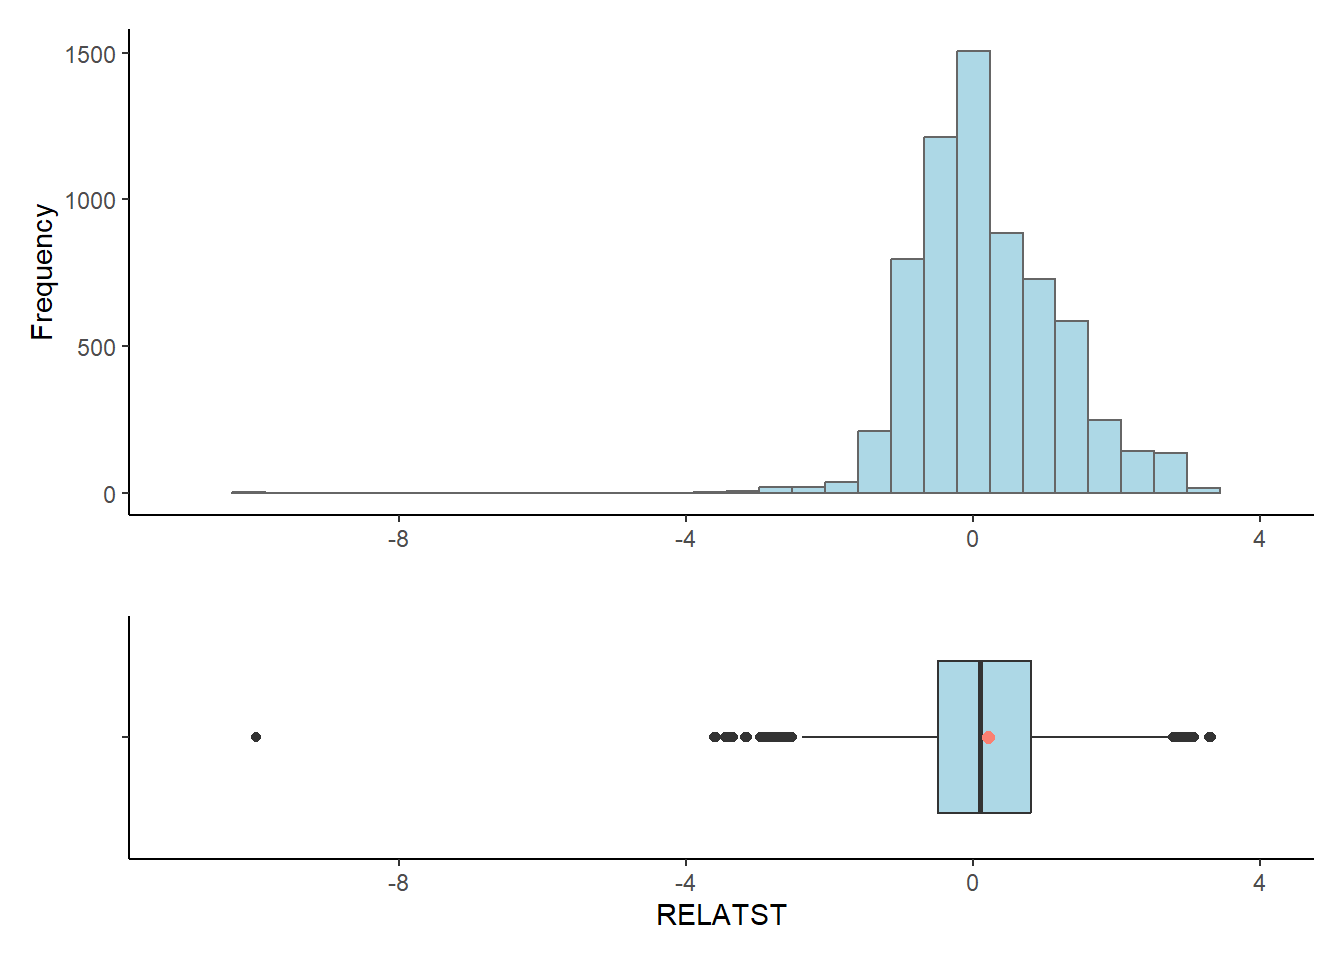
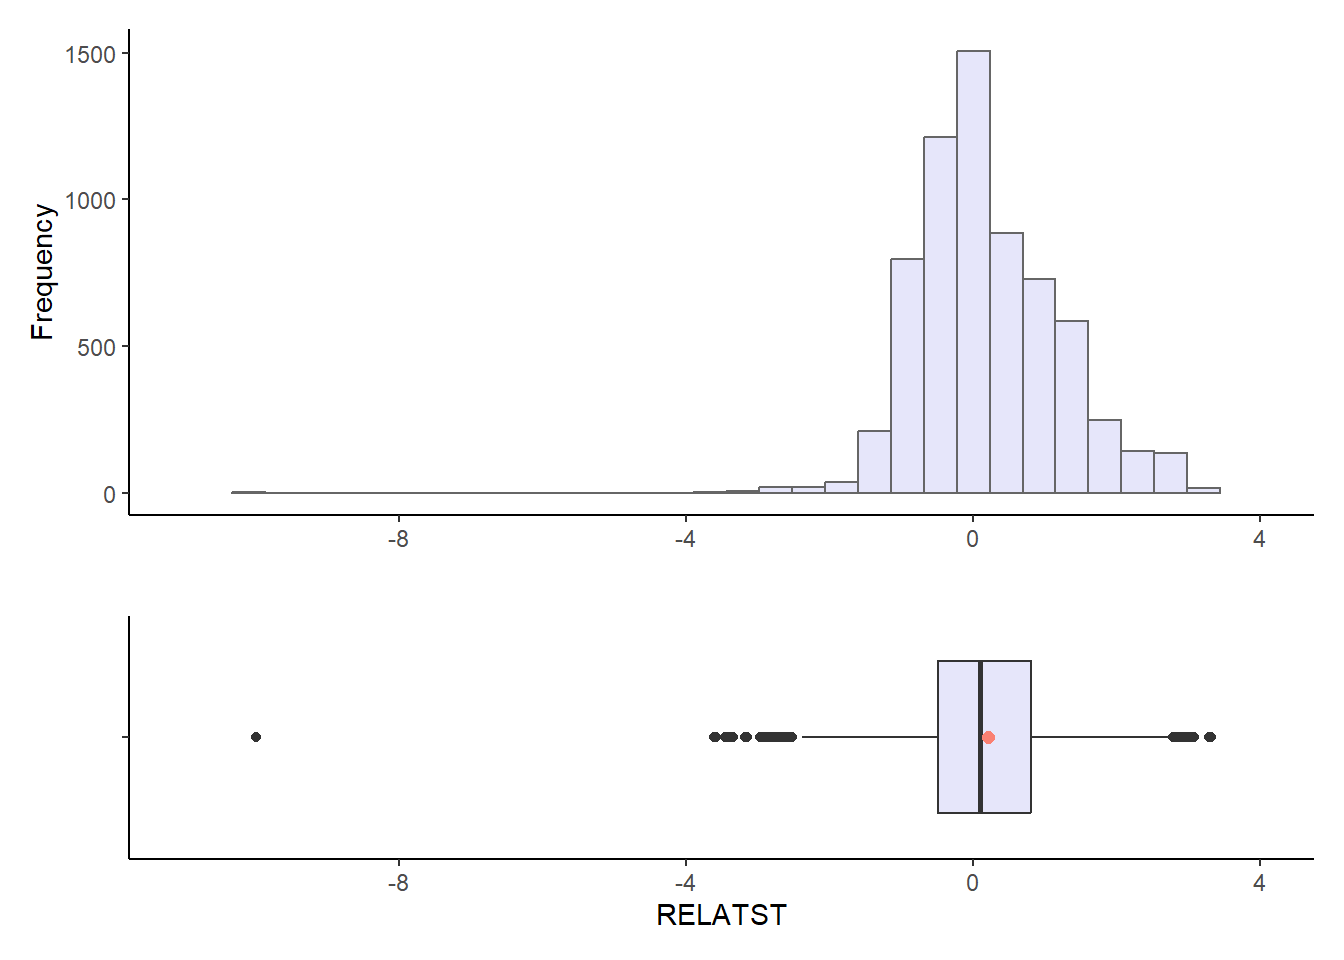
take_home_ex01

Changed region(s): [[0.5625, 0.0312, 0.9062, 0.5312], [0.6875, 0.6875, 0.7812, 0.8438]]

diff --git a/_site/take_home_ex/take_home_ex01/take_home_ex01.html b/_site/take_home_ex/take_home_ex01/take_home_ex01.html
@@ -904,7 +904,9 @@ Tip
 <div class="cell">
 <div class="sourceCode cell-code" id="cb19"><pre class="sourceCode r code-with-copy"><code class="sourceCode r"><span id="cb19-1"><a href="#cb19-1" aria-hidden="true" tabindex="-1"></a><span class="fu">ggplot</span>(<span class="at">data =</span> stu_sg_data,</span>
 <span id="cb19-2"><a href="#cb19-2" aria-hidden="true" tabindex="-1"></a>       <span class="fu">aes</span>(<span class="at">x =</span> GENDER)) <span class="sc">+</span></span>
-<span id="cb19-3"><a href="#cb19-3" aria-hidden="true" tabindex="-1"></a>  <span class="fu">geom_bar</span>(<span class="at">color =</span> <span class="st">"grey40"</span>)</span></code><button title="Copy to Clipboard" class="code-copy-button"><i class="bi"></i></button></pre></div>
+<span id="cb19-3"><a href="#cb19-3" aria-hidden="true" tabindex="-1"></a>  <span class="fu">geom_bar</span>(<span class="at">color =</span> <span class="st">"grey40"</span>,</span>
+<span id="cb19-4"><a href="#cb19-4" aria-hidden="true" tabindex="-1"></a>           <span class="at">fill =</span> <span class="st">"lavender"</span>) <span class="sc">+</span></span>
+<span id="cb19-5"><a href="#cb19-5" aria-hidden="true" tabindex="-1"></a>  <span class="fu">theme_classic</span>()</span></code><button title="Copy to Clipboard" class="code-copy-button"><i class="bi"></i></button></pre></div>
 <div class="cell-output-display">
 <p><img src="take_home_ex01_files/figure-html/unnamed-chunk-19-1.png" class="img-fluid" width="672"></p>
 </div>
@@ -919,7 +921,7 @@ Tip
 <div class="sourceCode cell-code" id="cb20"><pre class="sourceCode r code-with-copy"><code class="sourceCode r"><span id="cb20-1"><a href="#cb20-1" aria-hidden="true" tabindex="-1"></a>escs_hist <span class="ot">&lt;-</span> <span class="fu">ggplot</span>(<span class="at">data =</span> stu_sg_data,</span>
 <span id="cb20-2"><a href="#cb20-2" aria-hidden="true" tabindex="-1"></a>       <span class="fu">aes</span>(<span class="at">x =</span> ESCS)) <span class="sc">+</span></span>
 <span id="cb20-3"><a href="#cb20-3" aria-hidden="true" tabindex="-1"></a>  <span class="fu">geom_histogram</span>(<span class="at">color =</span> <span class="st">"grey40"</span>,</span>
-<span id="cb20-4"><a href="#cb20-4" aria-hidden="true" tabindex="-1"></a>                 <span class="at">fill =</span> <span class="st">"lightblue"</span>) <span class="sc">+</span></span>
+<span id="cb20-4"><a href="#cb20-4" aria-hidden="true" tabindex="-1"></a>                 <span class="at">fill =</span> <span class="st">"lavender"</span>) <span class="sc">+</span></span>
 <span id="cb20-5"><a href="#cb20-5" aria-hidden="true" tabindex="-1"></a>  <span class="fu">ggtitle</span>(<span class="st">"Distribution of ESCS"</span>) <span class="sc">+</span></span>
 <span id="cb20-6"><a href="#cb20-6" aria-hidden="true" tabindex="-1"></a>  <span class="fu">xlab</span>(<span class="st">""</span>) <span class="sc">+</span></span>
 <span id="cb20-7"><a href="#cb20-7" aria-hidden="true" tabindex="-1"></a>  <span class="fu">ylab</span>(<span class="st">"Frequency"</span>) <span class="sc">+</span></span>
@@ -929,7 +931,7 @@ Tip
 <span id="cb20-11"><a href="#cb20-11" aria-hidden="true" tabindex="-1"></a>escs_box <span class="ot">&lt;-</span> <span class="fu">ggplot</span>(<span class="at">data =</span> stu_sg_data,</span>
 <span id="cb20-12"><a href="#cb20-12" aria-hidden="true" tabindex="-1"></a>       <span class="fu">aes</span>(<span class="at">x =</span> ESCS,</span>
 <span id="cb20-13"><a href="#cb20-13" aria-hidden="true" tabindex="-1"></a>           <span class="at">y =</span> <span class="st">""</span>)) <span class="sc">+</span></span>
-<span id="cb20-14"><a href="#cb20-14" aria-hidden="true" tabindex="-1"></a>  <span class="fu">geom_boxplot</span>(<span class="at">fill =</span> <span class="st">"lightblue"</span>) <span class="sc">+</span></span>
+<span id="cb20-14"><a href="#cb20-14" aria-hidden="true" tabindex="-1"></a>  <span class="fu">geom_boxplot</span>(<span class="at">fill =</span> <span class="st">"lavender"</span>) <span class="sc">+</span></span>
 <span id="cb20-15"><a href="#cb20-15" aria-hidden="true" tabindex="-1"></a>  <span class="fu">geom_point</span>(<span class="at">stat =</span> <span class="st">"summary"</span>,</span>
 <span id="cb20-16"><a href="#cb20-16" aria-hidden="true" tabindex="-1"></a>             <span class="at">fun.y  =</span> <span class="st">"mean"</span>,</span>
 <span id="cb20-17"><a href="#cb20-17" aria-hidden="true" tabindex="-1"></a>             <span class="at">color =</span> <span class="st">"salmon"</span>,</span>
@@ -957,7 +959,7 @@ Tip
 <div class="sourceCode cell-code" id="cb21"><pre class="sourceCode r code-with-copy"><code class="sourceCode r"><span id="cb21-1"><a href="#cb21-1" aria-hidden="true" tabindex="-1"></a>relatst_hist <span class="ot">&lt;-</span> <span class="fu">ggplot</span>(<span class="at">data =</span> stu_sg_data,</span>
 <span id="cb21-2"><a href="#cb21-2" aria-hidden="true" tabindex="-1"></a>       <span class="fu">aes</span>(<span class="at">x =</span> RELATST)) <span class="sc">+</span></span>
 <span id="cb21-3"><a href="#cb21-3" aria-hidden="true" tabindex="-1"></a>  <span class="fu">geom_histogram</span>(<span class="at">color =</span> <span class="st">"grey40"</span>,</span>
-<span id="cb21-4"><a href="#cb21-4" aria-hidden="true" tabindex="-1"></a>                 <span class="at">fill =</span> <span class="st">"lightblue"</span>) <span class="sc">+</span></span>
+<span id="cb21-4"><a href="#cb21-4" aria-hidden="true" tabindex="-1"></a>                 <span class="at">fill =</span> <span class="st">"lavender"</span>) <span class="sc">+</span></span>
 <span id="cb21-5"><a href="#cb21-5" aria-hidden="true" tabindex="-1"></a>  <span class="fu">xlab</span>(<span class="st">""</span>) <span class="sc">+</span></span>
 <span id="cb21-6"><a href="#cb21-6" aria-hidden="true" tabindex="-1"></a>  <span class="fu">ylab</span>(<span class="st">"Frequency"</span>) <span class="sc">+</span></span>
 <span id="cb21-7"><a href="#cb21-7" aria-hidden="true" tabindex="-1"></a>  <span class="fu">coord_cartesian</span>(<span class="at">xlim =</span> <span class="fu">c</span>(<span class="sc">-</span><span class="dv">11</span>, <span class="dv">4</span>)) <span class="sc">+</span></span>
@@ -965,7 +967,7 @@ Tip
 <span id="cb21-9"><a href="#cb21-9" aria-hidden="true" tabindex="-1"></a></span>
 <span id="cb21-10"><a href="#cb21-10" aria-hidden="true" tabindex="-1"></a>relatst_box <span class="ot">&lt;-</span> <span class="fu">ggplot</span>(<span class="at">data =</span> stu_sg_data,</span>
 <span id="cb21-11"><a href="#cb21-11" aria-hidden="true" tabindex="-1"></a>       <span class="fu">aes</span>(<span class="at">x =</span> RELATST, <span class="at">y =</span> <span class="st">""</span>)) <span class="sc">+</span></span>
-<span id="cb21-12"><a href="#cb21-12" aria-hidden="true" tabindex="-1"></a>  <span class="fu">geom_boxplot</span>(<span class="at">fill =</span> <span class="st">"lightblue"</span>) <span class="sc">+</span></span>
+<span id="cb21-12"><a href="#cb21-12" aria-hidden="true" tabindex="-1"></a>  <span class="fu">geom_boxplot</span>(<span class="at">fill =</span> <span class="st">"lavender"</span>) <span class="sc">+</span></span>
 <span id="cb21-13"><a href="#cb21-13" aria-hidden="true" tabindex="-1"></a>  <span class="fu">stat_summary</span>(<span class="at">geom =</span> <span class="st">"point"</span>,</span>
 <span id="cb21-14"><a href="#cb21-14" aria-hidden="true" tabindex="-1"></a>               <span class="at">fun.y =</span> <span class="st">"mean"</span>,</span>
 <span id="cb21-15"><a href="#cb21-15" aria-hidden="true" tabindex="-1"></a>               <span class="at">color =</span> <span class="st">"salmon"</span>,</span>
@@ -987,16 +989,18 @@ Tip
 <section id="distribution-of-sense-of-belonging" class="level2">
 <h2 class="anchored" data-anchor-id="distribution-of-sense-of-belonging">5.4. Distribution of Sense of Belonging</h2>
 <div class="cell">
+<details>
+<summary>Show the code</summary>
 <div class="sourceCode cell-code" id="cb22"><pre class="sourceCode r code-with-copy"><code class="sourceCode r"><span id="cb22-1"><a href="#cb22-1" aria-hidden="true" tabindex="-1"></a>belong_hist <span class="ot">&lt;-</span> <span class="fu">ggplot</span>(<span class="at">data =</span> stu_sg_data,</span>
 <span id="cb22-2"><a href="#cb22-2" aria-hidden="true" tabindex="-1"></a>       <span class="fu">aes</span>(<span class="at">x =</span> BELONG)) <span class="sc">+</span></span>
 <span id="cb22-3"><a href="#cb22-3" aria-hidden="true" tabindex="-1"></a>  <span class="fu">geom_histogram</span>(<span class="at">color =</span> <span class="st">"grey40"</span>,</span>
-<span id="cb22-4"><a href="#cb22-4" aria-hidden="true" tabindex="-1"></a>                 <span class="at">fill =</span> <span class="st">"lightblue"</span>) <span class="sc">+</span></span>
+<span id="cb22-4"><a href="#cb22-4" aria-hidden="true" tabindex="-1"></a>                 <span class="at">fill =</span> <span class="st">"lavender"</span>) <span class="sc">+</span></span>
 <span id="cb22-5"><a href="#cb22-5" aria-hidden="true" tabindex="-1"></a>  <span class="fu">coord_cartesian</span>(<span class="at">xlim =</span> <span class="fu">c</span>(<span class="sc">-</span><span class="dv">4</span>, <span class="dv">4</span>)) <span class="sc">+</span></span>
 <span id="cb22-6"><a href="#cb22-6" aria-hidden="true" tabindex="-1"></a>  <span class="fu">theme_classic</span>()</span>
 <span id="cb22-7"><a href="#cb22-7" aria-hidden="true" tabindex="-1"></a></span>
 <span id="cb22-8"><a href="#cb22-8" aria-hidden="true" tabindex="-1"></a>belong_box <span class="ot">&lt;-</span> <span class="fu">ggplot</span>(<span class="at">data =</span> stu_sg_data,</span>
 <span id="cb22-9"><a href="#cb22-9" aria-hidden="true" tabindex="-1"></a>       <span class="fu">aes</span>(<span class="at">x =</span> BELONG, <span class="at">y =</span> <span class="st">""</span>)) <span class="sc">+</span></span>
-<span id="cb22-10"><a href="#cb22-10" aria-hidden="true" tabindex="-1"></a>  <span class="fu">geom_boxplot</span>(<span class="at">fill =</span> <span class="st">"lightblue"</span>) <span class="sc">+</span></span>
+<span id="cb22-10"><a href="#cb22-10" aria-hidden="true" tabindex="-1"></a>  <span class="fu">geom_boxplot</span>(<span class="at">fill =</span> <span class="st">"lavender"</span>) <span class="sc">+</span></span>
 <span id="cb22-11"><a href="#cb22-11" aria-hidden="true" tabindex="-1"></a>  <span class="fu">theme_classic</span>() <span class="sc">+</span></span>
 <span id="cb22-12"><a href="#cb22-12" aria-hidden="true" tabindex="-1"></a>  <span class="fu">stat_summary</span>(<span class="at">geom =</span> <span class="st">"point"</span>,</span>
 <span id="cb22-13"><a href="#cb22-13" aria-hidden="true" tabindex="-1"></a>               <span class="at">fun.y =</span> <span class="st">"mean"</span>,</span>
@@ -1009,6 +1013,7 @@ Tip
 <span id="cb22-20"><a href="#cb22-20" aria-hidden="true" tabindex="-1"></a></span>
 <span id="cb22-21"><a href="#cb22-21" aria-hidden="true" tabindex="-1"></a>belong_hist <span class="sc">/</span> belong_box <span class="sc">+</span></span>
 <span id="cb22-22"><a href="#cb22-22" aria-hidden="true" tabindex="-1"></a>  <span class="fu">plot_layout</span>(<span class="at">nrow =</span> <span class="dv">2</span>, <span class="at">heights =</span> <span class="fu">c</span>(<span class="dv">2</span>, <span class="dv">1</span>))</span></code><button title="Copy to Clipboard" class="code-copy-button"><i class="bi"></i></button></pre></div>
+</details>
 <div class="cell-output-display">
 <p><img src="take_home_ex01_files/figure-html/unnamed-chunk-22-1.png" class="img-fluid" width="672"></p>
 </div>
